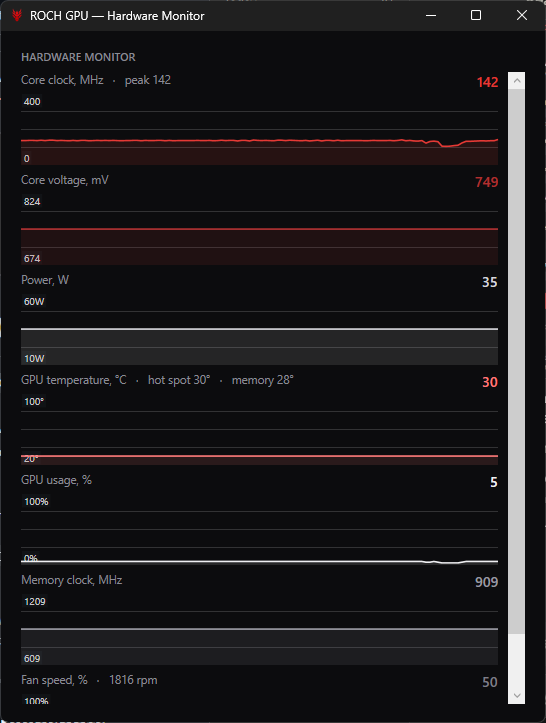
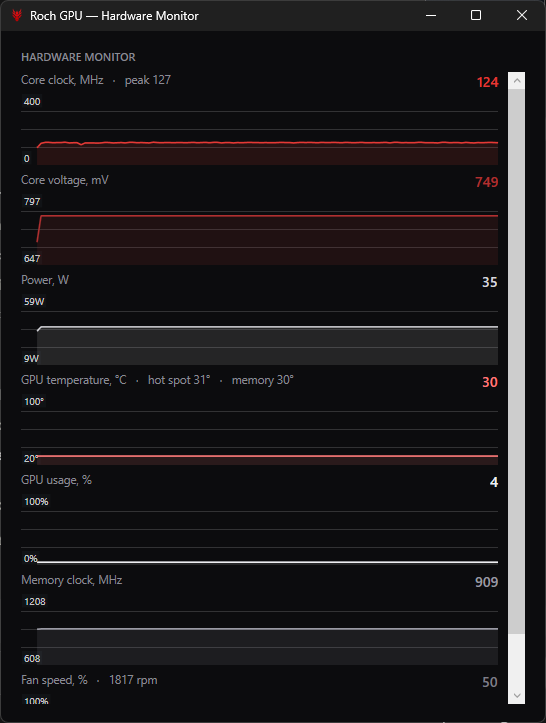
chore: display the app name as "Roch GPU"
Follows the executable and repository rename. Every user-visible occurrence of
"ROCH GPU" now reads "Roch GPU": the title bar wordmark, both window titles, the
tray tooltip and text, the message-box captions, the CLI header and the assembly
Product on all three projects. The banner in assets/logo.svg follows, and the two
AMD screenshots are recaptured so the README does not show the old name.

Two occurrences are deliberately left alone, because they are identifiers rather
than labels and renaming either strands existing state:

  ProfileStore     %AppData%\ROCH GPU  - holds the saved profiles and settings
  StartupTaskService  "ROCH GPU Apply Profile"  - the registered logon task

Renaming those needs a migration step (the store already carries one, from the
older RochGpuOC folder), not a string edit.

diff --git a/src/GpuTuner.App/MainWindow.xaml b/src/GpuTuner.App/MainWindow.xaml
@@ -3,7 +3,7 @@
         xmlns:x="http://schemas.microsoft.com/winfx/2006/xaml"
         xmlns:c="clr-namespace:GpuTuner.App.Controls"
         xmlns:conv="clr-namespace:GpuTuner.App.Converters"
-        Title="ROCH GPU" Height="668" Width="350"
+        Title="Roch GPU" Height="668" Width="350"
         ResizeMode="CanMinimize" WindowStyle="None"
         WindowStartupLocation="CenterScreen"
         Style="{StaticResource {x:Type Window}}">
@@ -112,7 +112,7 @@
             <Grid>
                 <Grid.ColumnDefinitions><ColumnDefinition Width="*"/><ColumnDefinition Width="Auto"/></Grid.ColumnDefinitions>
                 <StackPanel Orientation="Horizontal" VerticalAlignment="Center" Margin="12,0,0,0">
-                    <TextBlock Text="ROCH" FontSize="12.5" FontWeight="Bold" Foreground="{StaticResource AccentBrush}"/>
+                    <TextBlock Text="Roch" FontSize="12.5" FontWeight="Bold" Foreground="{StaticResource AccentBrush}"/>
                     <TextBlock Text="GPU" FontSize="12.5" FontWeight="Bold" Margin="4,0,0,0"/>
                 </StackPanel>
                 <StackPanel Grid.Column="1" Orientation="Horizontal">

diff --git a/src/GpuTuner.App/MonitorWindow.xaml b/src/GpuTuner.App/MonitorWindow.xaml
@@ -3,7 +3,7 @@
         xmlns:x="http://schemas.microsoft.com/winfx/2006/xaml"
         xmlns:c="clr-namespace:GpuTuner.App.Controls"
         xmlns:conv="clr-namespace:GpuTuner.App.Converters"
-        Title="ROCH GPU — Hardware Monitor" Height="730" Width="560" MinWidth="380" MinHeight="360"
+        Title="Roch GPU — Hardware Monitor" Height="730" Width="560" MinWidth="380" MinHeight="360"
         WindowStartupLocation="Manual"
         Style="{StaticResource {x:Type Window}}">
     <Window.Resources>

diff --git a/src/GpuTuner.App/MainWindow.xaml.cs b/src/GpuTuner.App/MainWindow.xaml.cs
@@ -1,4 +1,4 @@
-using System;
+using System;
 using System.ComponentModel;
 using System.Diagnostics;
 using System.Linq;
@@ -76,7 +76,7 @@ public partial class MainWindow : Window
             // the limiter line, which is the one thing on this window fed by telemetry.
             if (_svc.BackgroundMode) return;
             _vm.Telemetry = t;
-            if (_tray != null) _tray.Text = $"ROCH GPU — {t.TemperatureC:0}°C, {t.CoreClockMhz:0} MHz, fan {t.FanPercent:0}%";
+            if (_tray != null) _tray.Text = $"Roch GPU — {t.TemperatureC:0}°C, {t.CoreClockMhz:0} MHz, fan {t.FanPercent:0}%";
         });
     }
 
@@ -159,7 +159,7 @@ public partial class MainWindow : Window
                 // Falls back to the generic Windows icon rather than failing the tray entirely, which
                 // is what SetupTray's catch would otherwise do to the Show/Exit menu.
                 Icon = _trayIcon ?? System.Drawing.SystemIcons.Application,
-                Text = "ROCH GPU",
+                Text = "Roch GPU",
                 Visible = true
             };
             var menu = new WinForms.ContextMenuStrip();
@@ -246,7 +246,7 @@ public partial class MainWindow : Window
         // Nothing will arrive to refresh these now, so don't leave the last sample on screen
         // pretending to still be current.
         _vm.Telemetry = null;
-        if (_tray != null) _tray.Text = "ROCH GPU";
+        if (_tray != null) _tray.Text = "Roch GPU";
     }
 
     private void MainWindow_Closing(object? sender, CancelEventArgs e)
@@ -261,7 +261,7 @@ public partial class MainWindow : Window
         {
             var r = MessageBox.Show(
                 "Fan control is active. Minimize to tray to keep it running?\n\nYes = minimize to tray\nNo = exit (fans return to automatic)",
-                "ROCH GPU", MessageBoxButton.YesNoCancel, MessageBoxImage.Question);
+                "Roch GPU", MessageBoxButton.YesNoCancel, MessageBoxImage.Question);
             if (r == MessageBoxResult.Cancel) { e.Cancel = true; return; }
             if (r == MessageBoxResult.Yes) { e.Cancel = true; MinimizeToTray(); return; }
         }

diff --git a/src/GpuTuner.App/App.xaml.cs b/src/GpuTuner.App/App.xaml.cs
@@ -1,4 +1,4 @@
-using System;
+using System;
 using System.IO;
 using System.Linq;
 using System.Windows;
@@ -78,7 +78,7 @@ public partial class App : Application
             {
                 var r = MessageBox.Show(
                     ex.Message + "\n\nStart with a simulated GPU instead (UI demo only)?",
-                    "ROCH GPU — no supported GPU", MessageBoxButton.YesNo, MessageBoxImage.Warning);
+                    "Roch GPU — no supported GPU", MessageBoxButton.YesNo, MessageBoxImage.Warning);
                 if (r == MessageBoxResult.Yes)
                 {
                     Service.Dispose();
@@ -125,7 +125,7 @@ public partial class App : Application
         LogLine("Unhandled: " + e.Exception);
         // A message box in the logon-task run would wait forever on a desktop nobody is looking at.
         if (!_headless)
-            MessageBox.Show(e.Exception.Message, "ROCH GPU error", MessageBoxButton.OK, MessageBoxImage.Error);
+            MessageBox.Show(e.Exception.Message, "Roch GPU error", MessageBoxButton.OK, MessageBoxImage.Error);
         e.Handled = true;
         // ShutdownMode is OnExplicitShutdown: if the crash happened before the main window existed
         // (e.g. inside OnStartup), swallowing it would leave a windowless zombie process behind.

diff --git a/src/GpuTuner.App/ViewModels/MainViewModel.cs b/src/GpuTuner.App/ViewModels/MainViewModel.cs
@@ -1,4 +1,4 @@
-using System;
+using System;
 using System.Collections.Generic;
 using System.Collections.ObjectModel;
 using System.Linq;
@@ -613,7 +613,7 @@ public sealed class MainViewModel : ObservableObject
     {
         var slot = Slots.FirstOrDefault(s => s.Number == number);
         if (slot is not { Occupied: true }) return;
-        if (MessageBox.Show($"Clear slot {number}?", "ROCH GPU",
+        if (MessageBox.Show($"Clear slot {number}?", "Roch GPU",
                 MessageBoxButton.YesNo, MessageBoxImage.Question) != MessageBoxResult.Yes) return;
 
         _store.Delete(slot.Name);
@@ -846,7 +846,7 @@ public sealed class MainViewModel : ObservableObject
     private void DeleteSelectedProfile()
     {
         if (SelectedProfile == null) return;
-        if (MessageBox.Show($"Delete profile '{SelectedProfile}'?", "ROCH GPU", MessageBoxButton.YesNo, MessageBoxImage.Question) != MessageBoxResult.Yes) return;
+        if (MessageBox.Show($"Delete profile '{SelectedProfile}'?", "Roch GPU", MessageBoxButton.YesNo, MessageBoxImage.Question) != MessageBoxResult.Yes) return;
         _store.Delete(SelectedProfile);
         if (StartupProfile == SelectedProfile) { StartupProfile = null; ApplyOnStartup = false; }
         RefreshProfiles();

diff --git a/src/GpuTuner.Cli/Program.cs b/src/GpuTuner.Cli/Program.cs
@@ -1,4 +1,4 @@
-using GpuTuner.Core.Backends;
+using GpuTuner.Core.Backends;
 using GpuTuner.Core.Backends.Mock;
 using GpuTuner.Core.Backends.Nvidia;
 using GpuTuner.Core.Models;
@@ -313,7 +313,7 @@ public static class CommandLine
     }
 
     static void Usage() => Console.WriteLine("""
-        RochGPU.exe — ROCH GPU command line / undervolt CLI (needs admin for writes)
+        RochGPU.exe — Roch GPU command line / undervolt CLI (needs admin for writes)
 
           RochGPU.exe info
           RochGPU.exe monitor [--interval 1000]
